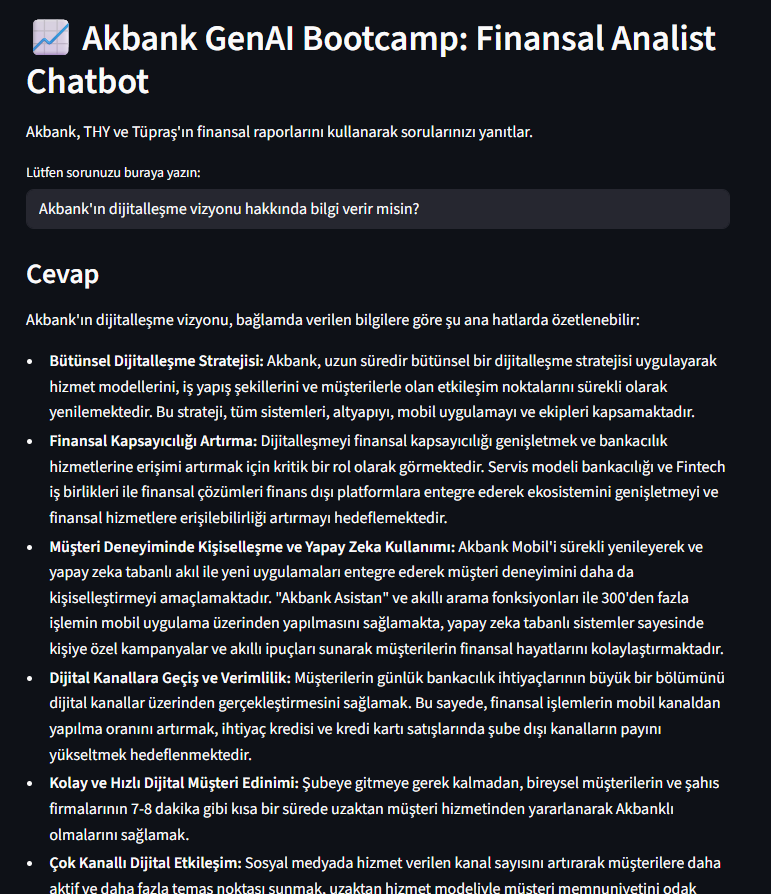
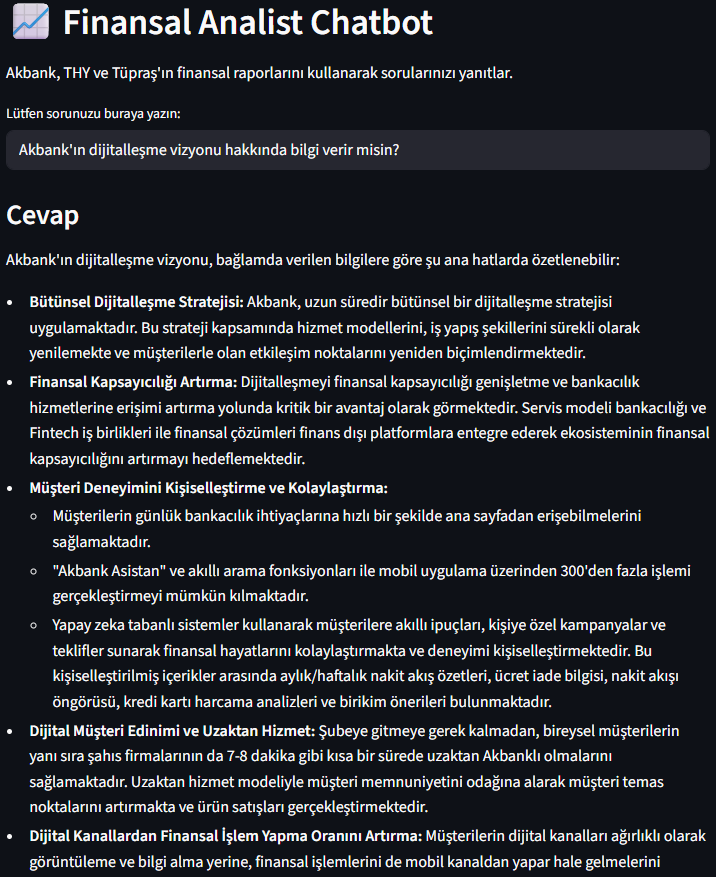
Update

diff --git a/src/app.py b/src/app.py
@@ -71,7 +71,7 @@ def get_conversational_chain():
 # --- STREAMLIT WEB ARAYÜZÜ ---
 
 st.set_page_config(page_title="Finansal Analist Chatbot", page_icon="📈")
-st.header("📈 Akbank GenAI Bootcamp: Finansal Analist Chatbot")
+st.header("📈 Finansal Analist Chatbot")
 st.write("Akbank, THY ve Tüpraş'ın finansal raporlarını kullanarak sorularınızı yanıtlar.")
 
 # Vektör veritabanını yükle
@@ -79,7 +79,10 @@ vector_store = get_vector_store()
 
 if vector_store:
     # Kullanıcıdan soru al
-    user_question = st.text_input("Lütfen sorunuzu buraya yazın:")
+    user_question = st.text_input(
+        "Lütfen sorunuzu buraya yazın:",
+        placeholder="Akbank'ın dijitalleşme vizyonu hakkında bilgi verir misin?" # Örnek metni ekledik
+    )
 
     if user_question:
         # Vektör veritabanından ilgili dokümanları bul (Similarity Search)

diff --git a/README.md b/README.md
@@ -6,8 +6,6 @@ Bu proje, **Akbank GenAI Bootcamp** için geliştirilmiş, **Retrieval-Augmented
 
 ![Finansal Analist Chatbot Arayüzü](https://raw.githubusercontent.com/themuhammedguler/Financial-Analyst-ChatBot-Project/main/png/chatbot.png)
 
-*(Not: Resim linkiniz, dosyanın ham (raw) haline işaret edecek şekilde düzeltildi.)*
-
 ---
 
 ## 🔗 Canlı Demo
